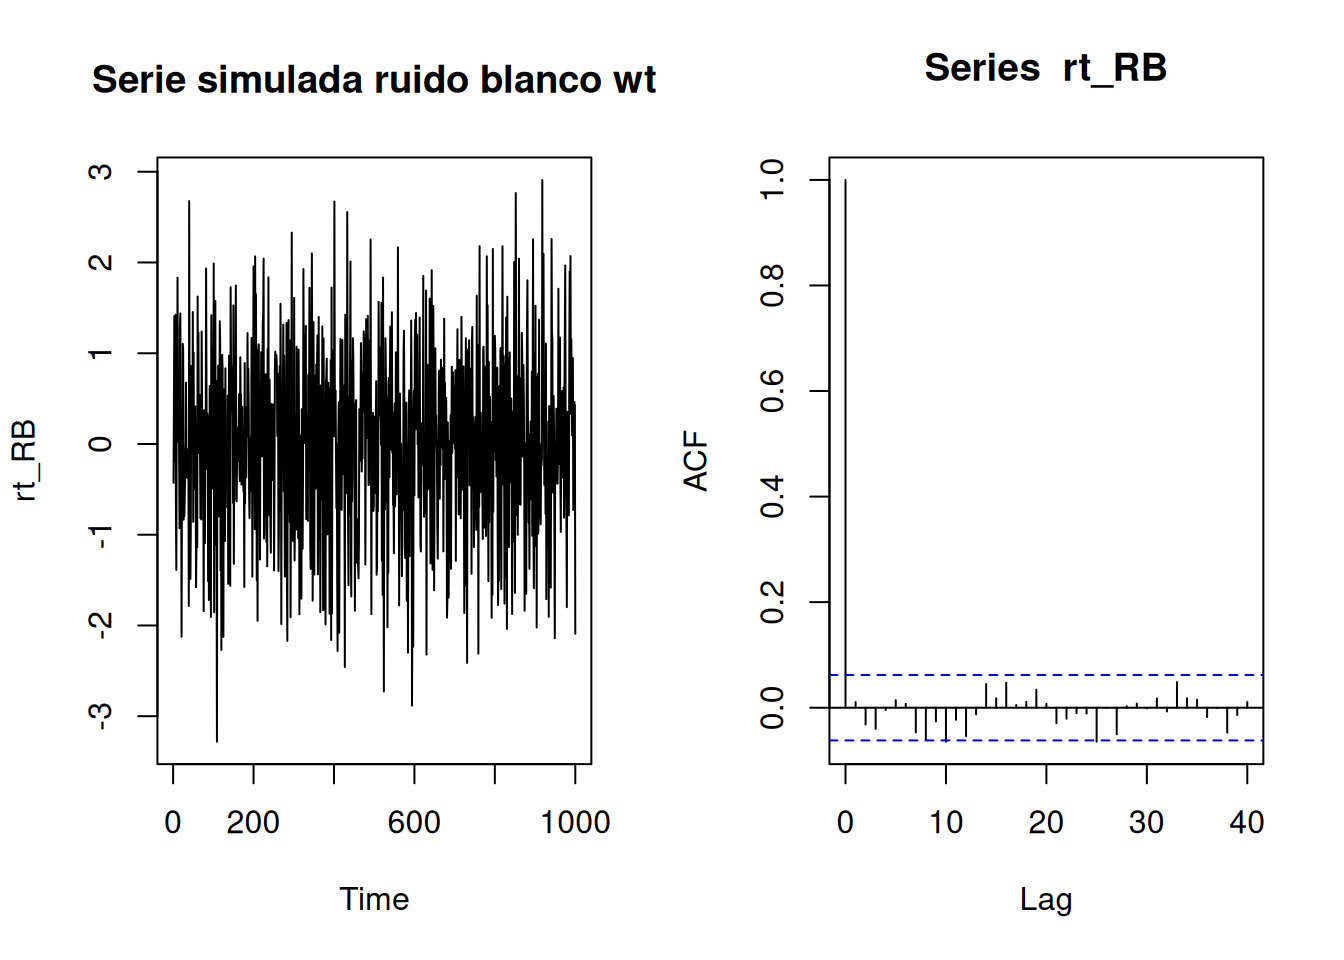
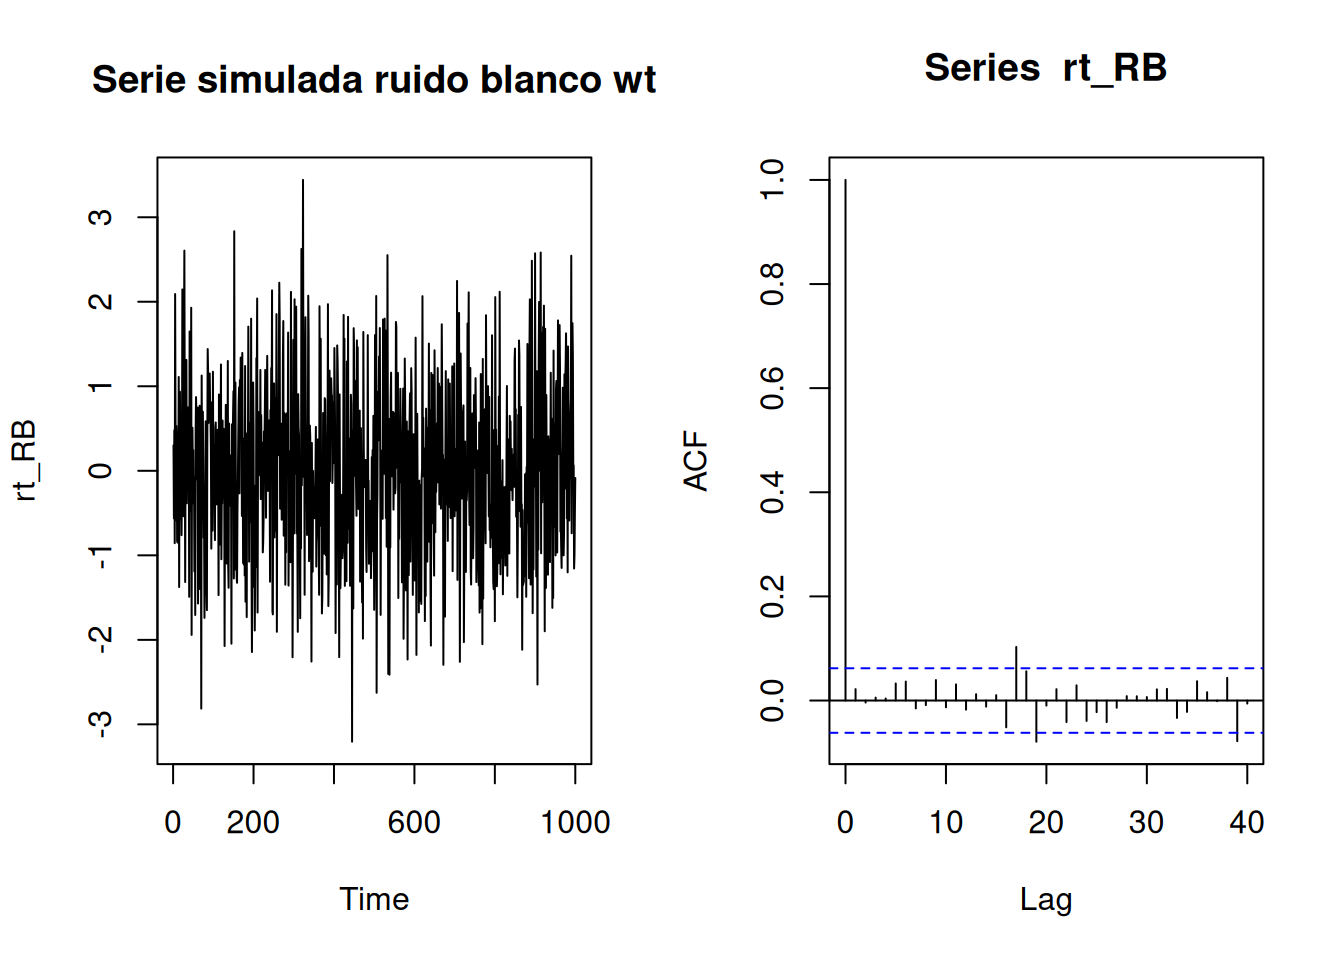
Deploying to gh-pages from @ bcubides-est/Series_de_tiempo@735d715d55377c2e49729fc01e9368e3181e72f2 🚀

diff --git a/SERIES_DE_TIEMPO/P1_ACF_muestral_Quarto.html b/SERIES_DE_TIEMPO/P1_ACF_muestral_Quarto.html
@@ -451,13 +451,11 @@ pre > code.sourceCode > span > a:first-child::before { text-decoration: underlin
 <h2 data-number="3.1" class="anchored" data-anchor-id="acf-muestral-de-un-ruido-blanco-wt"><span class="header-section-number">3.1</span> ACF muestral de un ruido blanco wt</h2>
 <p>El Autocorrelograma decae rápidamente, por lo cual no hay estacionariedad</p>
 <div class="cell">
-<div class="sourceCode cell-code" id="cb1"><pre class="sourceCode r code-with-copy"><code class="sourceCode r"><span id="cb1-1"><a href="#cb1-1" aria-hidden="true" tabindex="-1"></a><span class="fu">rm</span>(<span class="at">list =</span> <span class="fu">ls</span>(<span class="at">all =</span> <span class="cn">TRUE</span>))</span>
-<span id="cb1-2"><a href="#cb1-2" aria-hidden="true" tabindex="-1"></a></span>
-<span id="cb1-3"><a href="#cb1-3" aria-hidden="true" tabindex="-1"></a><span class="co"># Simula un modelo ARIMA(p,d,q) si d=0, es un ARMA(p,q)</span></span>
-<span id="cb1-4"><a href="#cb1-4" aria-hidden="true" tabindex="-1"></a>rt_RB <span class="ot">&lt;-</span> <span class="fu">arima.sim</span>(<span class="fu">list</span>(<span class="at">order =</span> <span class="fu">c</span>(<span class="dv">0</span>,<span class="dv">0</span>,<span class="dv">0</span>)), <span class="at">n =</span> <span class="dv">1000</span> )</span>
-<span id="cb1-5"><a href="#cb1-5" aria-hidden="true" tabindex="-1"></a><span class="fu">par</span>(<span class="at">mfrow =</span> <span class="fu">c</span>(<span class="dv">1</span>,<span class="dv">2</span>))</span>
-<span id="cb1-6"><a href="#cb1-6" aria-hidden="true" tabindex="-1"></a><span class="fu">plot</span>(rt_RB, <span class="at">type =</span> <span class="st">"l"</span>, <span class="at">main =</span> <span class="st">"Serie simulada ruido blanco wt"</span>)</span>
-<span id="cb1-7"><a href="#cb1-7" aria-hidden="true" tabindex="-1"></a><span class="fu">acf</span>(rt_RB, <span class="at">lag.max =</span> <span class="dv">40</span>) </span></code><button title="Copy to Clipboard" class="code-copy-button"><i class="bi"></i></button></pre></div>
+<div class="sourceCode cell-code" id="cb1"><pre class="sourceCode r code-with-copy"><code class="sourceCode r"><span id="cb1-1"><a href="#cb1-1" aria-hidden="true" tabindex="-1"></a><span class="co"># Simula un modelo ARIMA(p,d,q) si d=0, es un ARMA(p,q)</span></span>
+<span id="cb1-2"><a href="#cb1-2" aria-hidden="true" tabindex="-1"></a>rt_RB <span class="ot">&lt;-</span> <span class="fu">arima.sim</span>(<span class="fu">list</span>(<span class="at">order =</span> <span class="fu">c</span>(<span class="dv">0</span>,<span class="dv">0</span>,<span class="dv">0</span>)), <span class="at">n =</span> <span class="dv">1000</span> )</span>
+<span id="cb1-3"><a href="#cb1-3" aria-hidden="true" tabindex="-1"></a><span class="fu">par</span>(<span class="at">mfrow =</span> <span class="fu">c</span>(<span class="dv">1</span>,<span class="dv">2</span>))</span>
+<span id="cb1-4"><a href="#cb1-4" aria-hidden="true" tabindex="-1"></a><span class="fu">plot</span>(rt_RB, <span class="at">type =</span> <span class="st">"l"</span>, <span class="at">main =</span> <span class="st">"Serie simulada ruido blanco wt"</span>)</span>
+<span id="cb1-5"><a href="#cb1-5" aria-hidden="true" tabindex="-1"></a><span class="fu">acf</span>(rt_RB, <span class="at">lag.max =</span> <span class="dv">40</span>) </span></code><button title="Copy to Clipboard" class="code-copy-button"><i class="bi"></i></button></pre></div>
 <div class="cell-output-display">
 <div>
 <figure class="figure">
@@ -1042,56 +1040,54 @@ pre > code.sourceCode > span > a:first-child::before { text-decoration: underlin
 <span id="cb7-15"><a href="#cb7-15" aria-hidden="true" tabindex="-1"></a>El Autocorrelograma decae rápidamente, por lo cual no hay estacionariedad</span>
 <span id="cb7-16"><a href="#cb7-16" aria-hidden="true" tabindex="-1"></a></span>
 <span id="cb7-19"><a href="#cb7-19" aria-hidden="true" tabindex="-1"></a><span class="in">```{r}</span></span>
-<span id="cb7-20"><a href="#cb7-20" aria-hidden="true" tabindex="-1"></a><span class="fu">rm</span>(<span class="at">list =</span> <span class="fu">ls</span>(<span class="at">all =</span> <span class="cn">TRUE</span>))</span>
-<span id="cb7-21"><a href="#cb7-21" aria-hidden="true" tabindex="-1"></a></span>
-<span id="cb7-22"><a href="#cb7-22" aria-hidden="true" tabindex="-1"></a><span class="co"># Simula un modelo ARIMA(p,d,q) si d=0, es un ARMA(p,q)</span></span>
-<span id="cb7-23"><a href="#cb7-23" aria-hidden="true" tabindex="-1"></a>rt_RB <span class="ot">&lt;-</span> <span class="fu">arima.sim</span>(<span class="fu">list</span>(<span class="at">order =</span> <span class="fu">c</span>(<span class="dv">0</span>,<span class="dv">0</span>,<span class="dv">0</span>)), <span class="at">n =</span> <span class="dv">1000</span> )</span>
-<span id="cb7-24"><a href="#cb7-24" aria-hidden="true" tabindex="-1"></a><span class="fu">par</span>(<span class="at">mfrow =</span> <span class="fu">c</span>(<span class="dv">1</span>,<span class="dv">2</span>))</span>
-<span id="cb7-25"><a href="#cb7-25" aria-hidden="true" tabindex="-1"></a><span class="fu">plot</span>(rt_RB, <span class="at">type =</span> <span class="st">"l"</span>, <span class="at">main =</span> <span class="st">"Serie simulada ruido blanco wt"</span>)</span>
-<span id="cb7-26"><a href="#cb7-26" aria-hidden="true" tabindex="-1"></a><span class="fu">acf</span>(rt_RB, <span class="at">lag.max =</span> <span class="dv">40</span>) </span>
-<span id="cb7-27"><a href="#cb7-27" aria-hidden="true" tabindex="-1"></a><span class="in">```</span></span>
+<span id="cb7-20"><a href="#cb7-20" aria-hidden="true" tabindex="-1"></a><span class="co"># Simula un modelo ARIMA(p,d,q) si d=0, es un ARMA(p,q)</span></span>
+<span id="cb7-21"><a href="#cb7-21" aria-hidden="true" tabindex="-1"></a>rt_RB <span class="ot">&lt;-</span> <span class="fu">arima.sim</span>(<span class="fu">list</span>(<span class="at">order =</span> <span class="fu">c</span>(<span class="dv">0</span>,<span class="dv">0</span>,<span class="dv">0</span>)), <span class="at">n =</span> <span class="dv">1000</span> )</span>
+<span id="cb7-22"><a href="#cb7-22" aria-hidden="true" tabindex="-1"></a><span class="fu">par</span>(<span class="at">mfrow =</span> <span class="fu">c</span>(<span class="dv">1</span>,<span class="dv">2</span>))</span>
+<span id="cb7-23"><a href="#cb7-23" aria-hidden="true" tabindex="-1"></a><span class="fu">plot</span>(rt_RB, <span class="at">type =</span> <span class="st">"l"</span>, <span class="at">main =</span> <span class="st">"Serie simulada ruido blanco wt"</span>)</span>
+<span id="cb7-24"><a href="#cb7-24" aria-hidden="true" tabindex="-1"></a><span class="fu">acf</span>(rt_RB, <span class="at">lag.max =</span> <span class="dv">40</span>) </span>
+<span id="cb7-25"><a href="#cb7-25" aria-hidden="true" tabindex="-1"></a><span class="in">```</span></span>
+<span id="cb7-26"><a href="#cb7-26" aria-hidden="true" tabindex="-1"></a></span>
+<span id="cb7-27"><a href="#cb7-27" aria-hidden="true" tabindex="-1"></a><span class="fu">## ACF muestral de una Caminata Aleatoria</span></span>
 <span id="cb7-28"><a href="#cb7-28" aria-hidden="true" tabindex="-1"></a></span>
-<span id="cb7-29"><a href="#cb7-29" aria-hidden="true" tabindex="-1"></a><span class="fu">## ACF muestral de una Caminata Aleatoria</span></span>
+<span id="cb7-29"><a href="#cb7-29" aria-hidden="true" tabindex="-1"></a><span class="fu">### Generación de la serie con y sin drift</span></span>
 <span id="cb7-30"><a href="#cb7-30" aria-hidden="true" tabindex="-1"></a></span>
-<span id="cb7-31"><a href="#cb7-31" aria-hidden="true" tabindex="-1"></a><span class="fu">### Generación de la serie con y sin drift</span></span>
-<span id="cb7-32"><a href="#cb7-32" aria-hidden="true" tabindex="-1"></a></span>
-<span id="cb7-35"><a href="#cb7-35" aria-hidden="true" tabindex="-1"></a><span class="in">```{r}</span></span>
-<span id="cb7-36"><a href="#cb7-36" aria-hidden="true" tabindex="-1"></a><span class="fu">set.seed</span>(<span class="dv">154</span>) <span class="co"># para reproducir los resultados</span></span>
-<span id="cb7-37"><a href="#cb7-37" aria-hidden="true" tabindex="-1"></a>w  <span class="ot">&lt;-</span> <span class="fu">rnorm</span>(<span class="dv">200</span>); x  <span class="ot">&lt;-</span> <span class="fu">cumsum</span>(w)   <span class="co"># dos comandos en una sola línea</span></span>
-<span id="cb7-38"><a href="#cb7-38" aria-hidden="true" tabindex="-1"></a>wd <span class="ot">&lt;-</span> w <span class="sc">+</span> <span class="fl">0.2</span>;    xd <span class="ot">&lt;-</span> <span class="fu">cumsum</span>(wd)</span>
-<span id="cb7-39"><a href="#cb7-39" aria-hidden="true" tabindex="-1"></a><span class="fu">par</span>(<span class="at">mfrow =</span> <span class="fu">c</span>(<span class="dv">1</span>,<span class="dv">1</span>))</span>
-<span id="cb7-40"><a href="#cb7-40" aria-hidden="true" tabindex="-1"></a><span class="fu">plot.ts</span>(xd, <span class="at">ylim =</span> <span class="fu">c</span>(<span class="sc">-</span><span class="dv">5</span>,<span class="dv">55</span>), <span class="at">main =</span> <span class="st">"Random walk"</span>, <span class="at">ylab =</span> <span class="st">""</span>)</span>
-<span id="cb7-41"><a href="#cb7-41" aria-hidden="true" tabindex="-1"></a><span class="fu">lines</span>(x, <span class="at">col =</span> <span class="dv">4</span>)</span>
-<span id="cb7-42"><a href="#cb7-42" aria-hidden="true" tabindex="-1"></a><span class="fu">abline</span>(<span class="at">h =</span> <span class="dv">0</span>, <span class="at">col =</span> <span class="dv">4</span>, <span class="at">lty =</span> <span class="dv">2</span>)</span>
-<span id="cb7-43"><a href="#cb7-43" aria-hidden="true" tabindex="-1"></a><span class="fu">abline</span>(<span class="at">a =</span> <span class="dv">0</span>, <span class="at">b =</span> <span class="fl">0.2</span>, <span class="at">lty =</span> <span class="dv">2</span>)</span>
-<span id="cb7-44"><a href="#cb7-44" aria-hidden="true" tabindex="-1"></a><span class="in">```</span></span>
+<span id="cb7-33"><a href="#cb7-33" aria-hidden="true" tabindex="-1"></a><span class="in">```{r}</span></span>
+<span id="cb7-34"><a href="#cb7-34" aria-hidden="true" tabindex="-1"></a><span class="fu">set.seed</span>(<span class="dv">154</span>) <span class="co"># para reproducir los resultados</span></span>
+<span id="cb7-35"><a href="#cb7-35" aria-hidden="true" tabindex="-1"></a>w  <span class="ot">&lt;-</span> <span class="fu">rnorm</span>(<span class="dv">200</span>); x  <span class="ot">&lt;-</span> <span class="fu">cumsum</span>(w)   <span class="co"># dos comandos en una sola línea</span></span>
+<span id="cb7-36"><a href="#cb7-36" aria-hidden="true" tabindex="-1"></a>wd <span class="ot">&lt;-</span> w <span class="sc">+</span> <span class="fl">0.2</span>;    xd <span class="ot">&lt;-</span> <span class="fu">cumsum</span>(wd)</span>
+<span id="cb7-37"><a href="#cb7-37" aria-hidden="true" tabindex="-1"></a><span class="fu">par</span>(<span class="at">mfrow =</span> <span class="fu">c</span>(<span class="dv">1</span>,<span class="dv">1</span>))</span>
+<span id="cb7-38"><a href="#cb7-38" aria-hidden="true" tabindex="-1"></a><span class="fu">plot.ts</span>(xd, <span class="at">ylim =</span> <span class="fu">c</span>(<span class="sc">-</span><span class="dv">5</span>,<span class="dv">55</span>), <span class="at">main =</span> <span class="st">"Random walk"</span>, <span class="at">ylab =</span> <span class="st">""</span>)</span>
+<span id="cb7-39"><a href="#cb7-39" aria-hidden="true" tabindex="-1"></a><span class="fu">lines</span>(x, <span class="at">col =</span> <span class="dv">4</span>)</span>
+<span id="cb7-40"><a href="#cb7-40" aria-hidden="true" tabindex="-1"></a><span class="fu">abline</span>(<span class="at">h =</span> <span class="dv">0</span>, <span class="at">col =</span> <span class="dv">4</span>, <span class="at">lty =</span> <span class="dv">2</span>)</span>
+<span id="cb7-41"><a href="#cb7-41" aria-hidden="true" tabindex="-1"></a><span class="fu">abline</span>(<span class="at">a =</span> <span class="dv">0</span>, <span class="at">b =</span> <span class="fl">0.2</span>, <span class="at">lty =</span> <span class="dv">2</span>)</span>
+<span id="cb7-42"><a href="#cb7-42" aria-hidden="true" tabindex="-1"></a><span class="in">```</span></span>
+<span id="cb7-43"><a href="#cb7-43" aria-hidden="true" tabindex="-1"></a></span>
+<span id="cb7-44"><a href="#cb7-44" aria-hidden="true" tabindex="-1"></a><span class="fu">### ACF de la caminata aleatoria sin drift</span></span>
 <span id="cb7-45"><a href="#cb7-45" aria-hidden="true" tabindex="-1"></a></span>
-<span id="cb7-46"><a href="#cb7-46" aria-hidden="true" tabindex="-1"></a><span class="fu">### ACF de la caminata aleatoria sin drift</span></span>
-<span id="cb7-47"><a href="#cb7-47" aria-hidden="true" tabindex="-1"></a></span>
-<span id="cb7-50"><a href="#cb7-50" aria-hidden="true" tabindex="-1"></a><span class="in">```{r}</span></span>
-<span id="cb7-51"><a href="#cb7-51" aria-hidden="true" tabindex="-1"></a><span class="fu">par</span>(<span class="at">mfrow =</span> <span class="fu">c</span>(<span class="dv">2</span>,<span class="dv">2</span>))</span>
-<span id="cb7-52"><a href="#cb7-52" aria-hidden="true" tabindex="-1"></a><span class="fu">plot.ts</span>(x, <span class="at">ylim =</span> <span class="fu">c</span>(<span class="sc">-</span><span class="dv">5</span>,<span class="dv">55</span>), <span class="at">main =</span> <span class="st">"Random walk sin drift"</span>, <span class="at">ylab =</span> <span class="st">""</span>, <span class="at">col =</span> <span class="dv">4</span>)</span>
-<span id="cb7-53"><a href="#cb7-53" aria-hidden="true" tabindex="-1"></a><span class="fu">abline</span>(<span class="at">h =</span> <span class="dv">0</span>, <span class="at">col =</span> <span class="dv">4</span>, <span class="at">lty =</span> <span class="dv">2</span>)</span>
-<span id="cb7-54"><a href="#cb7-54" aria-hidden="true" tabindex="-1"></a><span class="fu">acf</span>(x, <span class="at">lag.max =</span> <span class="dv">40</span>)</span>
-<span id="cb7-55"><a href="#cb7-55" aria-hidden="true" tabindex="-1"></a><span class="in">```</span></span>
+<span id="cb7-48"><a href="#cb7-48" aria-hidden="true" tabindex="-1"></a><span class="in">```{r}</span></span>
+<span id="cb7-49"><a href="#cb7-49" aria-hidden="true" tabindex="-1"></a><span class="fu">par</span>(<span class="at">mfrow =</span> <span class="fu">c</span>(<span class="dv">2</span>,<span class="dv">2</span>))</span>
+<span id="cb7-50"><a href="#cb7-50" aria-hidden="true" tabindex="-1"></a><span class="fu">plot.ts</span>(x, <span class="at">ylim =</span> <span class="fu">c</span>(<span class="sc">-</span><span class="dv">5</span>,<span class="dv">55</span>), <span class="at">main =</span> <span class="st">"Random walk sin drift"</span>, <span class="at">ylab =</span> <span class="st">""</span>, <span class="at">col =</span> <span class="dv">4</span>)</span>
+<span id="cb7-51"><a href="#cb7-51" aria-hidden="true" tabindex="-1"></a><span class="fu">abline</span>(<span class="at">h =</span> <span class="dv">0</span>, <span class="at">col =</span> <span class="dv">4</span>, <span class="at">lty =</span> <span class="dv">2</span>)</span>
+<span id="cb7-52"><a href="#cb7-52" aria-hidden="true" tabindex="-1"></a><span class="fu">acf</span>(x, <span class="at">lag.max =</span> <span class="dv">40</span>)</span>
+<span id="cb7-53"><a href="#cb7-53" aria-hidden="true" tabindex="-1"></a><span class="in">```</span></span>
+<span id="cb7-54"><a href="#cb7-54" aria-hidden="true" tabindex="-1"></a></span>
+<span id="cb7-55"><a href="#cb7-55" aria-hidden="true" tabindex="-1"></a><span class="fu">### ACF de la caminata aleatoria con drift</span></span>
 <span id="cb7-56"><a href="#cb7-56" aria-hidden="true" tabindex="-1"></a></span>
-<span id="cb7-57"><a href="#cb7-57" aria-hidden="true" tabindex="-1"></a><span class="fu">### ACF de la caminata aleatoria con drift</span></span>
-<span id="cb7-58"><a href="#cb7-58" aria-hidden="true" tabindex="-1"></a></span>
-<span id="cb7-61"><a href="#cb7-61" aria-hidden="true" tabindex="-1"></a><span class="in">```{r}</span></span>
-<span id="cb7-62"><a href="#cb7-62" aria-hidden="true" tabindex="-1"></a><span class="fu">plot.ts</span>(xd, <span class="at">main =</span> <span class="st">"Random walk con drift"</span>, <span class="at">ylab =</span> <span class="st">""</span>)</span>
-<span id="cb7-63"><a href="#cb7-63" aria-hidden="true" tabindex="-1"></a><span class="fu">abline</span>(<span class="at">a =</span> <span class="dv">0</span>, <span class="at">b =</span> <span class="fl">0.2</span>, <span class="at">lty =</span> <span class="dv">2</span>)</span>
-<span id="cb7-64"><a href="#cb7-64" aria-hidden="true" tabindex="-1"></a><span class="fu">acf</span>(xd, <span class="at">lag.max =</span> <span class="dv">40</span>)</span>
-<span id="cb7-65"><a href="#cb7-65" aria-hidden="true" tabindex="-1"></a><span class="in">```</span></span>
+<span id="cb7-59"><a href="#cb7-59" aria-hidden="true" tabindex="-1"></a><span class="in">```{r}</span></span>
+<span id="cb7-60"><a href="#cb7-60" aria-hidden="true" tabindex="-1"></a><span class="fu">plot.ts</span>(xd, <span class="at">main =</span> <span class="st">"Random walk con drift"</span>, <span class="at">ylab =</span> <span class="st">""</span>)</span>
+<span id="cb7-61"><a href="#cb7-61" aria-hidden="true" tabindex="-1"></a><span class="fu">abline</span>(<span class="at">a =</span> <span class="dv">0</span>, <span class="at">b =</span> <span class="fl">0.2</span>, <span class="at">lty =</span> <span class="dv">2</span>)</span>
+<span id="cb7-62"><a href="#cb7-62" aria-hidden="true" tabindex="-1"></a><span class="fu">acf</span>(xd, <span class="at">lag.max =</span> <span class="dv">40</span>)</span>
+<span id="cb7-63"><a href="#cb7-63" aria-hidden="true" tabindex="-1"></a><span class="in">```</span></span>
+<span id="cb7-64"><a href="#cb7-64" aria-hidden="true" tabindex="-1"></a></span>
+<span id="cb7-65"><a href="#cb7-65" aria-hidden="true" tabindex="-1"></a><span class="fu">## ACF de una serie con estacionalidad (AirPassengers)</span></span>
 <span id="cb7-66"><a href="#cb7-66" aria-hidden="true" tabindex="-1"></a></span>
-<span id="cb7-67"><a href="#cb7-67" aria-hidden="true" tabindex="-1"></a><span class="fu">## ACF de una serie con estacionalidad (AirPassengers)</span></span>
+<span id="cb7-67"><a href="#cb7-67" aria-hidden="true" tabindex="-1"></a>Se logra ver tendencia en el Autocorrelograma</span>
 <span id="cb7-68"><a href="#cb7-68" aria-hidden="true" tabindex="-1"></a></span>
-<span id="cb7-69"><a href="#cb7-69" aria-hidden="true" tabindex="-1"></a>Se logra ver tendencia en el Autocorrelograma</span>
-<span id="cb7-70"><a href="#cb7-70" aria-hidden="true" tabindex="-1"></a></span>
-<span id="cb7-73"><a href="#cb7-73" aria-hidden="true" tabindex="-1"></a><span class="in">```{r}</span></span>
-<span id="cb7-74"><a href="#cb7-74" aria-hidden="true" tabindex="-1"></a><span class="fu">par</span>(<span class="at">mfrow =</span> <span class="fu">c</span>(<span class="dv">1</span>,<span class="dv">2</span>))</span>
-<span id="cb7-75"><a href="#cb7-75" aria-hidden="true" tabindex="-1"></a><span class="fu">plot</span>(AirPassengers)</span>
-<span id="cb7-76"><a href="#cb7-76" aria-hidden="true" tabindex="-1"></a><span class="fu">acf</span>(AirPassengers, <span class="at">lag.max =</span> <span class="dv">48</span>) </span>
-<span id="cb7-77"><a href="#cb7-77" aria-hidden="true" tabindex="-1"></a><span class="in">```</span></span>
+<span id="cb7-71"><a href="#cb7-71" aria-hidden="true" tabindex="-1"></a><span class="in">```{r}</span></span>
+<span id="cb7-72"><a href="#cb7-72" aria-hidden="true" tabindex="-1"></a><span class="fu">par</span>(<span class="at">mfrow =</span> <span class="fu">c</span>(<span class="dv">1</span>,<span class="dv">2</span>))</span>
+<span id="cb7-73"><a href="#cb7-73" aria-hidden="true" tabindex="-1"></a><span class="fu">plot</span>(AirPassengers)</span>
+<span id="cb7-74"><a href="#cb7-74" aria-hidden="true" tabindex="-1"></a><span class="fu">acf</span>(AirPassengers, <span class="at">lag.max =</span> <span class="dv">48</span>) </span>
+<span id="cb7-75"><a href="#cb7-75" aria-hidden="true" tabindex="-1"></a><span class="in">```</span></span>
 </code><button title="Copy to Clipboard" class="code-copy-button" data-in-quarto-modal=""><i class="bi"></i></button></pre></div>
 </div></div></div></div></div>
 </div> <!-- /content -->

diff --git a/SERIES_DE_TIEMPO/P7_Ajuste_modelos_SARIMA_Quarto.html b/SERIES_DE_TIEMPO/P7_Ajuste_modelos_SARIMA_Quarto.html
@@ -531,7 +531,7 @@ La prueba ADF considera: <span class="math display">\[
     Augmented Dickey-Fuller Test
 
 data:  arimaej_raiz_unit
-Dickey-Fuller = -2.063, Lag order = 5, p-value = 0.5497
+Dickey-Fuller = -2.3219, Lag order = 5, p-value = 0.4412
 alternative hypothesis: stationary</code></pre>
 </div>
 <div class="sourceCode cell-code" id="cb5"><pre class="sourceCode r code-with-copy"><code class="sourceCode r"><span id="cb5-1"><a href="#cb5-1" aria-hidden="true" tabindex="-1"></a><span class="co"># Prueba KPSS (Ho: estacionariedad vs Ha: raiz unitaria)</span></span>
@@ -545,7 +545,7 @@ p-value</code></pre>
     KPSS Test for Level Stationarity
 
 data:  arimaej_raiz_unit
-KPSS Level = 1.9048, Truncation lag parameter = 4, p-value = 0.01</code></pre>
+KPSS Level = 1.3082, Truncation lag parameter = 4, p-value = 0.01</code></pre>
 </div>
 <div class="sourceCode cell-code" id="cb8"><pre class="sourceCode r code-with-copy"><code class="sourceCode r"><span id="cb8-1"><a href="#cb8-1" aria-hidden="true" tabindex="-1"></a><span class="co"># Prueba Phillips-Perron (Ho: raiz unitaria vs Ha: estacionariedad)</span></span>
 <span id="cb8-2"><a href="#cb8-2" aria-hidden="true" tabindex="-1"></a>tseries<span class="sc">::</span><span class="fu">pp.test</span>(arimaej_raiz_unit)        <span class="co"># p.valor&gt;0.05 ⇒ no rechaza Ho</span></span></code><button title="Copy to Clipboard" class="code-copy-button"><i class="bi"></i></button></pre></div>
@@ -554,8 +554,8 @@ KPSS Level = 1.9048, Truncation lag parameter = 4, p-value = 0.01</code></pre>
     Phillips-Perron Unit Root Test
 
 data:  arimaej_raiz_unit
-Dickey-Fuller Z(alpha) = -3.7102, Truncation lag parameter = 4, p-value
-= 0.9016
+Dickey-Fuller Z(alpha) = -4.0553, Truncation lag parameter = 4, p-value
+= 0.8825
 alternative hypothesis: stationary</code></pre>
 </div>
 </div>

diff --git a/SERIES_DE_TIEMPO/P0_Repaso_y_Graf_ST_Quarto.html b/SERIES_DE_TIEMPO/P0_Repaso_y_Graf_ST_Quarto.html
@@ -585,19 +585,19 @@ pre > code.sourceCode > span > a:first-child::before { text-decoration: underlin
 <span id="cb13-7"><a href="#cb13-7" aria-hidden="true" tabindex="-1"></a></span>
 <span id="cb13-8"><a href="#cb13-8" aria-hidden="true" tabindex="-1"></a>media  </span></code><button title="Copy to Clipboard" class="code-copy-button"><i class="bi"></i></button></pre></div>
 <div class="cell-output cell-output-stdout">
-<pre><code>[1] 0.03824078</code></pre>
+<pre><code>[1] -0.007318097</code></pre>
 </div>
 <div class="sourceCode cell-code" id="cb15"><pre class="sourceCode r code-with-copy"><code class="sourceCode r"><span id="cb15-1"><a href="#cb15-1" aria-hidden="true" tabindex="-1"></a>varianza </span></code><button title="Copy to Clipboard" class="code-copy-button"><i class="bi"></i></button></pre></div>
 <div class="cell-output cell-output-stdout">
-<pre><code>[1] 0.9215488</code></pre>
+<pre><code>[1] 1.118196</code></pre>
 </div>
 <div class="sourceCode cell-code" id="cb17"><pre class="sourceCode r code-with-copy"><code class="sourceCode r"><span id="cb17-1"><a href="#cb17-1" aria-hidden="true" tabindex="-1"></a>sesgo  </span></code><button title="Copy to Clipboard" class="code-copy-button"><i class="bi"></i></button></pre></div>
 <div class="cell-output cell-output-stdout">
-<pre><code>[1] -0.01316143</code></pre>
+<pre><code>[1] -0.03533763</code></pre>
 </div>
 <div class="sourceCode cell-code" id="cb19"><pre class="sourceCode r code-with-copy"><code class="sourceCode r"><span id="cb19-1"><a href="#cb19-1" aria-hidden="true" tabindex="-1"></a>curtosis</span></code><button title="Copy to Clipboard" class="code-copy-button"><i class="bi"></i></button></pre></div>
 <div class="cell-output cell-output-stdout">
-<pre><code>[1] 2.965959</code></pre>
+<pre><code>[1] 3.046863</code></pre>
 </div>
 </div>
 </section>
